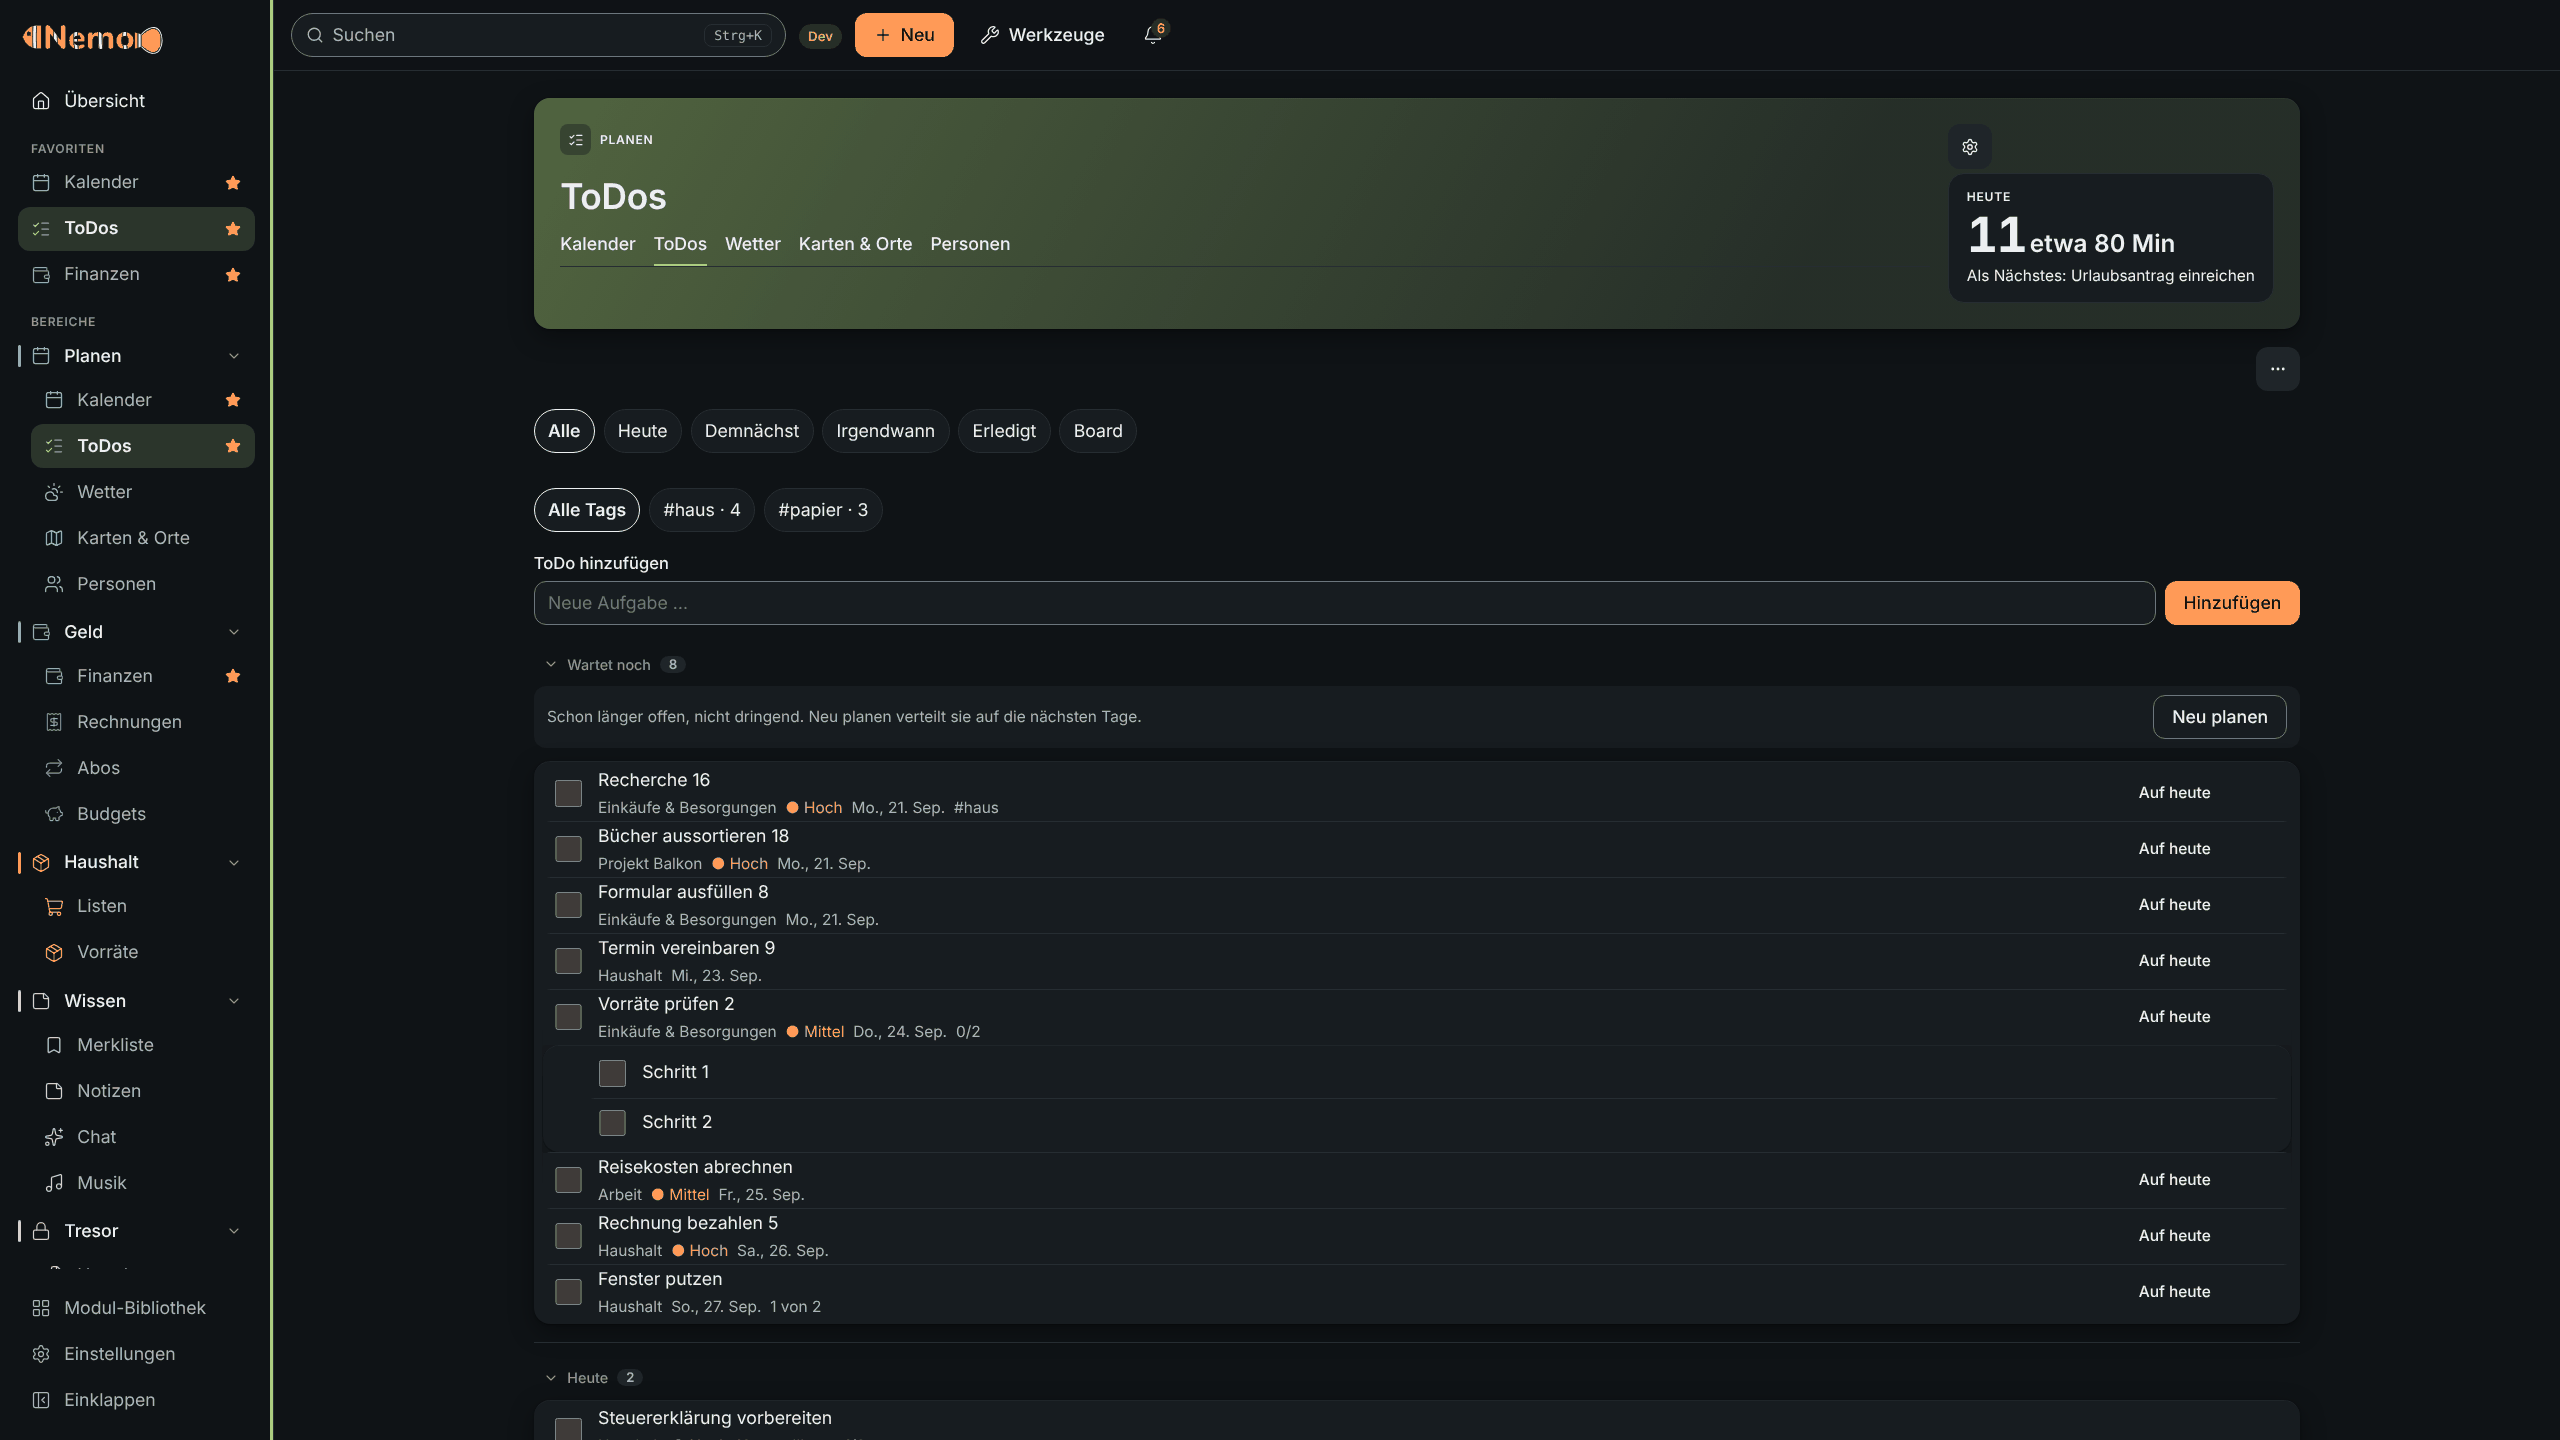
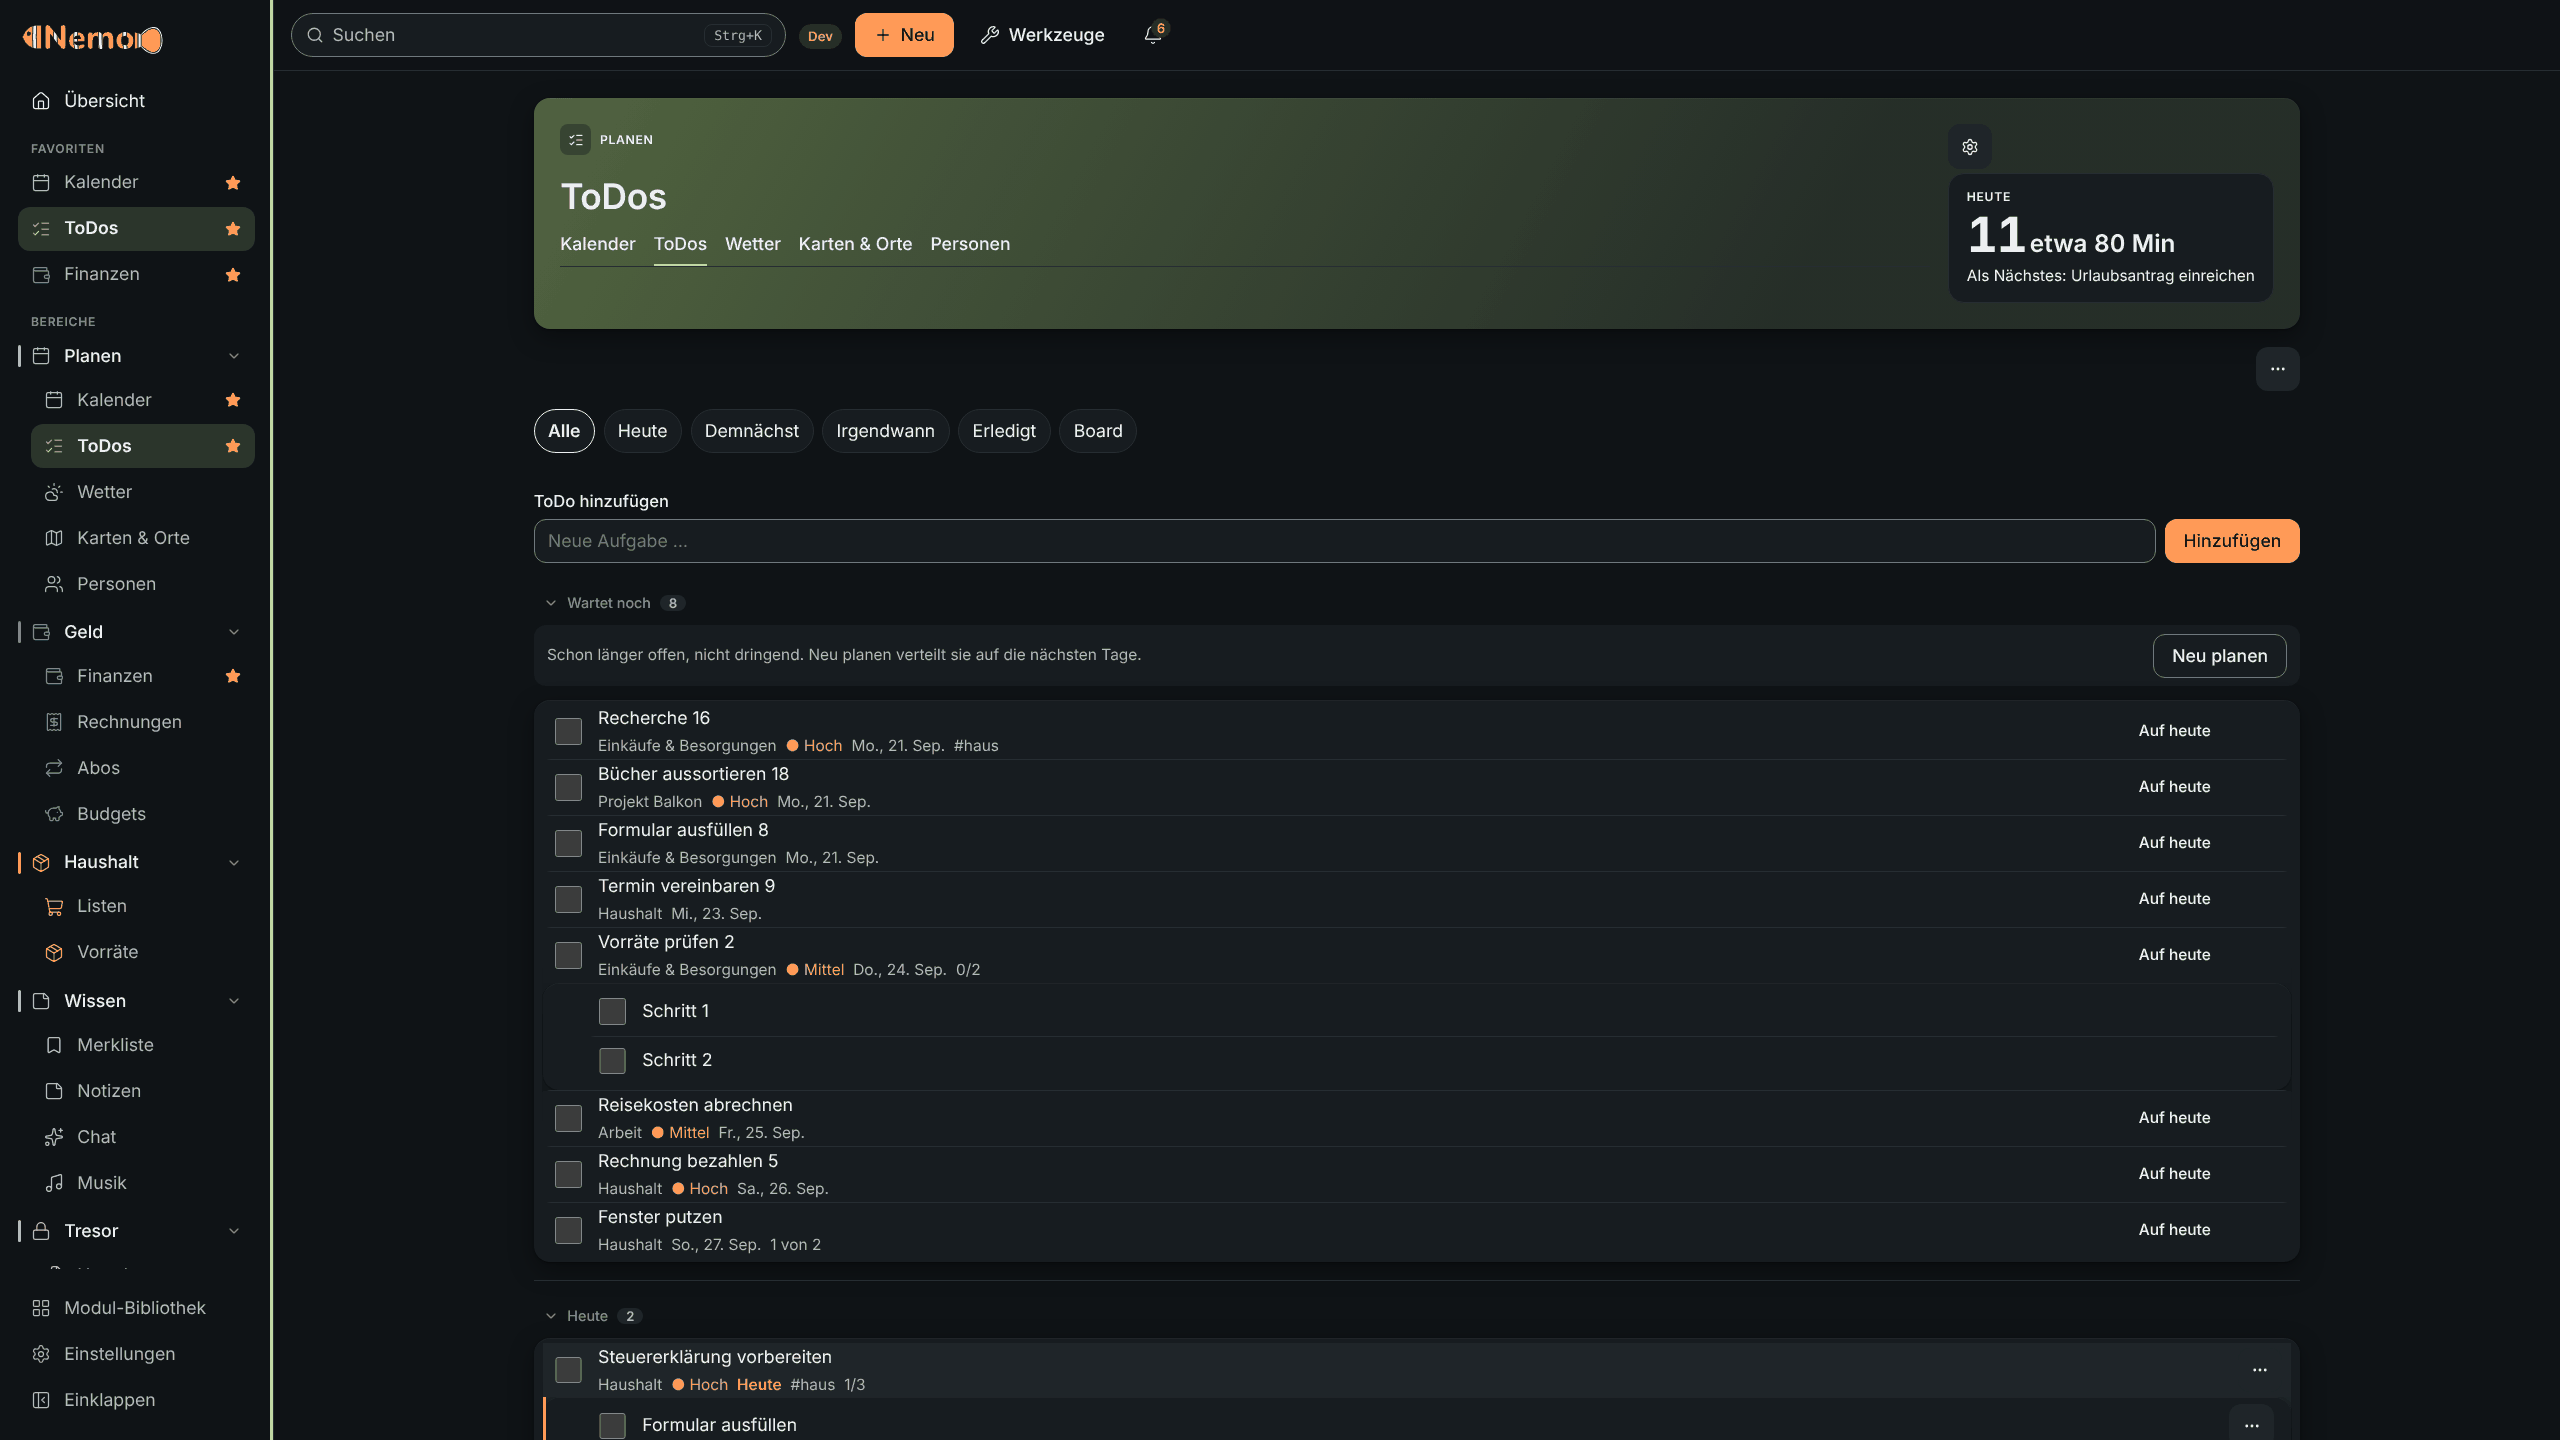
feat(todos): tag chips only in the advanced mode (stimulus budget); refreshed screenshots
Claude-Session: https://claude.ai/code/session_019RrxT5jGqn1v3Nuo8286Ce

diff --git a/web/src/modules/todos/__tests__/todosPage.test.tsx b/web/src/modules/todos/__tests__/todosPage.test.tsx
@@ -70,10 +70,11 @@ describe('ToDos views', () => {
   it('filters by tag', async () => {
     await taskRepo.create({ ...base, title: 'Rasen mähen', tags: ['garten'] });
     await taskRepo.create({ ...base, title: 'Steuer', tags: ['papier'] });
-    draw('/todos');
+    draw('/todos?tag=garten');
+    expect(await screen.findByText('Rasen mähen')).toBeVisible();
+    expect(screen.queryByText('Steuer')).toBeNull();
+    await userEvent.click(screen.getByRole('button', { name: 'Alle Tags' }));
     expect(await screen.findByText('Steuer')).toBeVisible();
-    await userEvent.click(screen.getByRole('button', { name: '#garten · 1' }));
-    await waitFor(() => expect(screen.queryByText('Steuer')).toBeNull());
     expect(screen.getByText('Rasen mähen')).toBeVisible();
   });
 

diff --git a/web/src/modules/todos/routes/TodosPage.tsx b/web/src/modules/todos/routes/TodosPage.tsx
@@ -630,7 +630,8 @@ export default function TodosPage() {
           ))}
         </div>
       </div>
-      {tagList.length > 0 ? (
+      {/* Tags are an advanced feature: the chips show in "Mehr Felder" mode or while a tag filters. */}
+      {tagList.length > 0 && (advanced || tag) ? (
         <div className={styles.tagBar} role="group" aria-label={t.todos.tags.filter}>
           <button
             type="button"

diff --git a/docs/howto/planning-modules.md b/docs/howto/planning-modules.md
@@ -17,7 +17,7 @@ Identity rules: [design/MODULE-IDENTITY.md](../design/MODULE-IDENTITY.md). One s
 
 - **Views, not states:** `views.ts` (`viewOf`, `movePatch`, `overdueTasks`): Heute (due/planned ≤ today) · Demnächst (dated later, or `startDate` in the future) · Irgendwann (`someday` flag **or** no date) · Erledigt. The page shows them as chips next to "Alle" (the grouped list, default) and "Board" (`components/BoardView.tsx`, same four columns). Only `someday` is stored; moving a card writes the dates (`movePatch`), "Erledigt" goes through `setDone` so repeats keep working.
 - **Board:** drag a card onto a column or use its "⋯" menu ("Verschieben nach …", the keyboard/touch way); "Morgen" is one click on cards in Heute. Every move is one undoable change.
-- **New task fields (`manifest.version 4`, no data rewrite):** `startDate` (hidden from the plain list and Heute until then), `tags` (`tags.ts`, free words without `#`, filter chips), `checklist` (lines inside a task), `links` (`note|mail|invoice|event` + id + title; other modules fill it through `todo.requested`'s `link`, the task opens `<module>?open=<id>`). Lists get `kind: 'project'` (progress bar done/all).
+- **New task fields (`manifest.version 4`, no data rewrite):** `startDate` (hidden from the plain list and Heute until then), `tags` (`tags.ts`, free words without `#`, filter chips under "Mehr Felder"), `checklist` (lines inside a task), `links` (`note|mail|invoice|event` + id + title; other modules fill it through `todo.requested`'s `link`, the task opens `<module>?open=<id>`). Lists get `kind: 'project'` (progress bar done/all).
 - **Head:** `components/TodayCard.tsx` (the signature `todayCard`, built on `HeroFigure` in `HeroSlot`): count, summed estimate, the next task. `identity.feedback: 'tick'` = a ≤ 250 ms check pop on the row checkbox (switched off by the global motion rules).
 - **Calm rules kept:** "Alle auf heute" appears only in the plain wording (calm mode keeps "Neu planen"); no streak or guilt text was added.
 - **Not built:** drag reorder inside the plain list (`order` stays manual via the editor), AI `postpone`/`tag` actions, widget changes (`next` already has tick and "Später").

diff --git a/docs/MANUAL-TESTS.md b/docs/MANUAL-TESTS.md
@@ -496,6 +496,6 @@ AP6. _Tresor:_ Tresor und Werkzeug einschalten, „Im Tresor speichern“ (bei g
 - **PK5 Mehrere Kalender:** „Mehr Felder anzeigen“ → „Kalender verwalten“: „Arbeit“ und „Familie“ anlegen/umfärben; Chips blenden Termine ein/aus; im Termin-Dialog das Feld „Kalender“; einen Kalender löschen: seine Termine bleiben sichtbar. ☐
 - **PK6 Erinnerungen:** Zeitring zeigt „Nächste Erinnerung in …“; „Erledigte entfernen“ räumt nur Beendete/Pausierte auf (Rückgängig); Termin mit „Erinnern“ → „Zusätzlich erinnern“ (Mehr Felder): zwei Benachrichtigungen. ☐
 - **TD1 Board im echten Browser:** ToDos → „Board“: eine Karte mit der Maus auf eine andere Spalte ziehen (Heute, Demnächst, Irgendwann, Erledigt); Rückgängig stellt sie zurück; das Ziehen geht auf Chrome und Firefox, auf Android funktioniert das „⋯“-Menü („Verschieben nach …“). ☐
-- **TD2 Ansichten und Tags:** „Heute“, „Demnächst“, „Irgendwann“ zeigen je die richtigen Aufgaben; eine Aufgabe mit „Beginnt am“ in der Zukunft fehlt in „Alle“ und „Heute“ und steht unter „Demnächst“ („ab …“); Tag-Chips filtern. ☐
+- **TD2 Ansichten und Tags:** „Heute“, „Demnächst“, „Irgendwann“ zeigen je die richtigen Aufgaben; eine Aufgabe mit „Beginnt am“ in der Zukunft fehlt in „Alle“ und „Heute“ und steht unter „Demnächst“ („ab …“); Tag-Chips (unter „Mehr Felder anzeigen“) filtern. ☐
 - **TD3 Checkliste, Verknüpfung, Projekt:** in der Aufgabe Checklistenpunkte anlegen/abhaken (Zähler in der Zeile); im Kalender „Als ToDo merken“: die Aufgabe hat „Termin: …“ und öffnet den Termin; eine Liste als „Projekt“ markieren zeigt den Fortschrittsbalken. ☐
 
